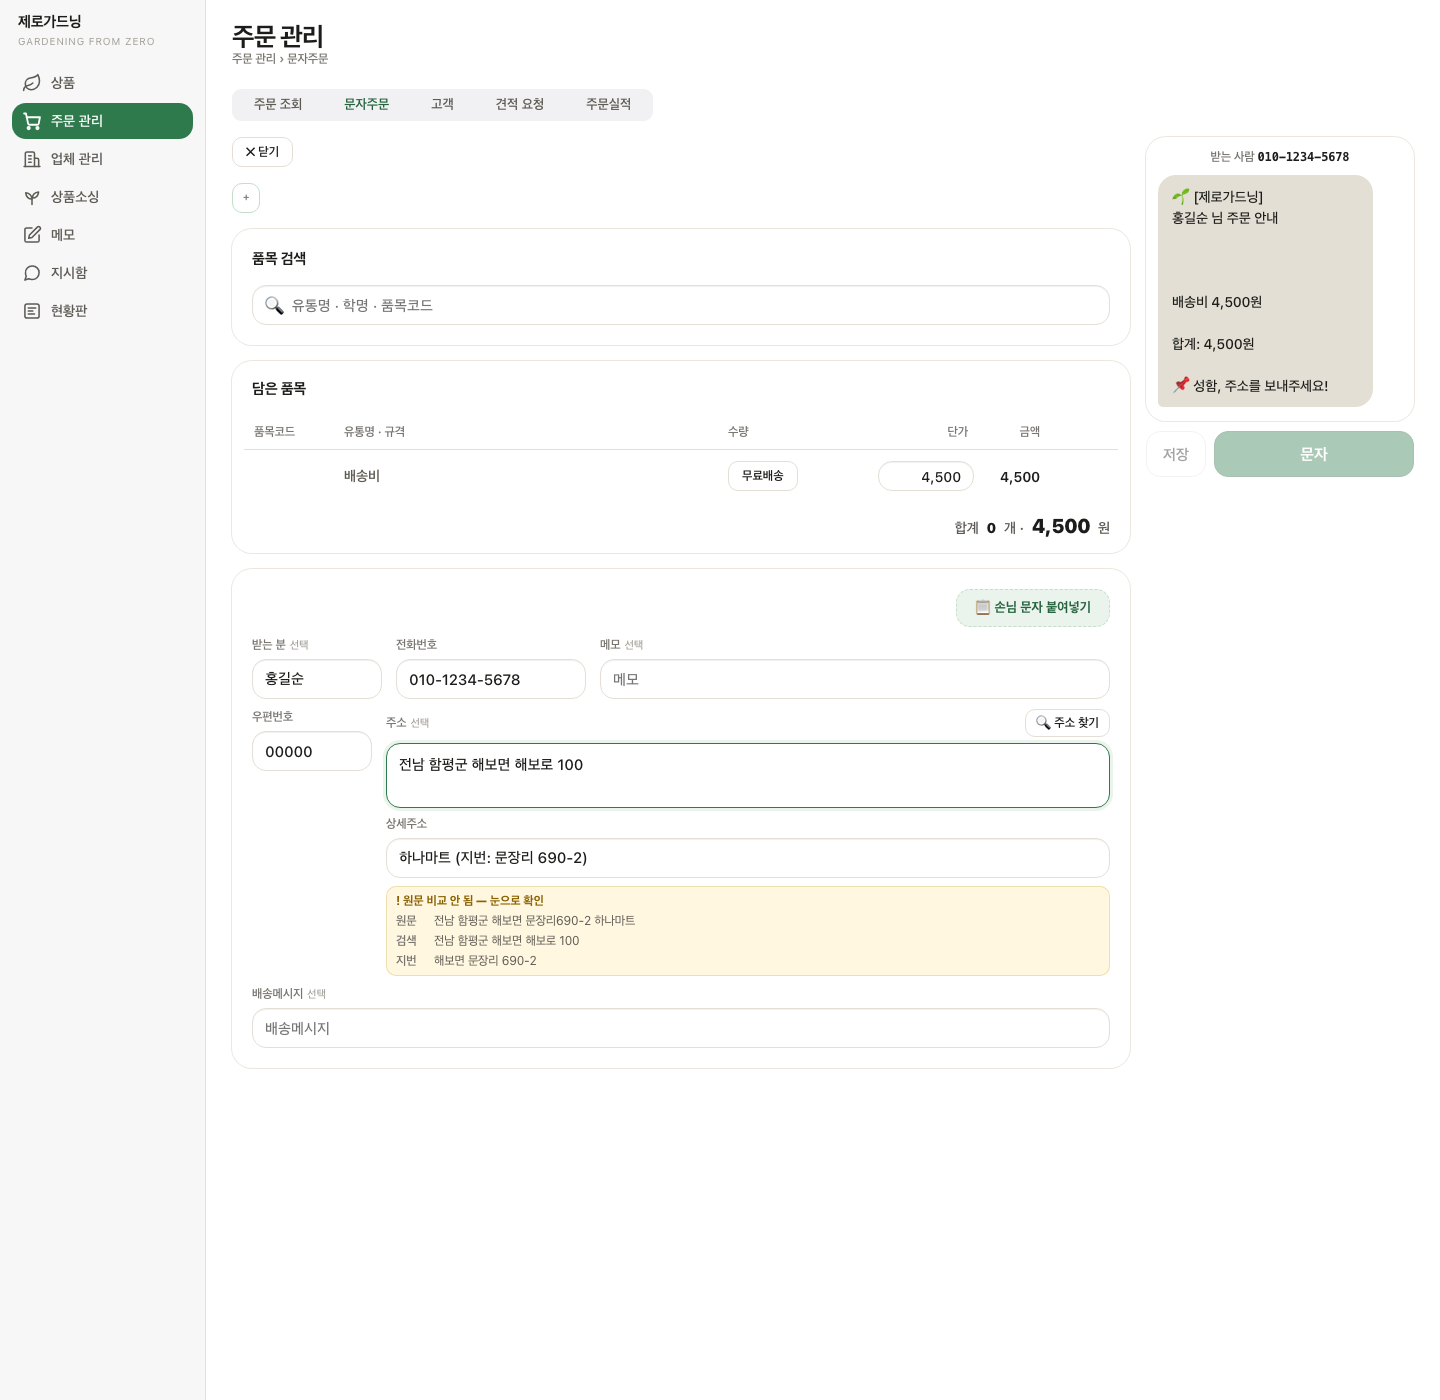
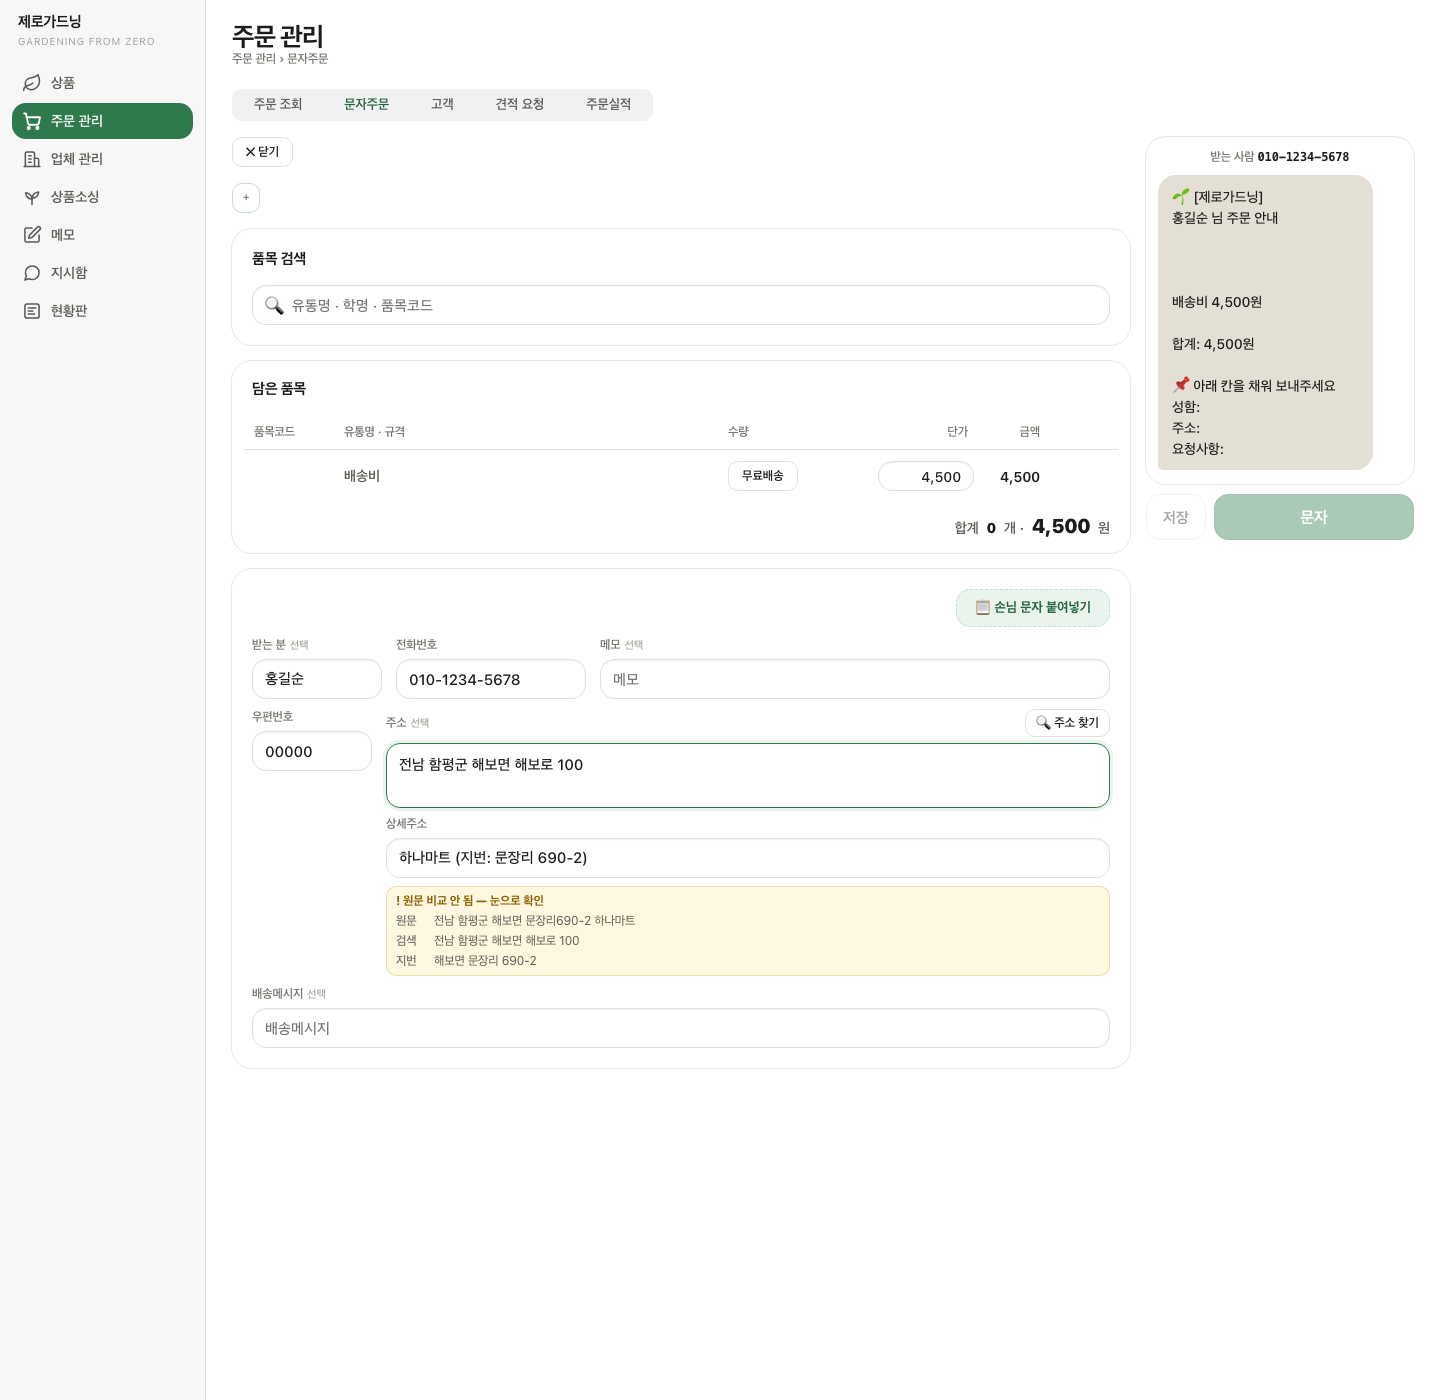
v3 견적 문자 끝 안내를 B안 양식으로 — 「📌 아래 칸을 채워 보내주세요 / 성함: / 주소: / 요청사항:」 (11/13 우람님 0223 답)
- 20a 문자내용 끝 줄(기본 템플릿 · 프리셋 기본문자도 여기서 나옴) — 사용자가 프리셋에서 고치는 건 그대로 자유
- 20h 나누기: 「요청사항:」 그 줄은 상세에 안 넣고 값.요청으로 · 머리 줄(아래 칸을 채워…)은 걸러냄 · 「없음」은 요청 아님
- 20h 채우기·20b 붙단추: 요청이 있으면 비어 있는 배송메시지 칸에 넣음
- 시험: 54 규칙 50/50(B안 답장 6 · 끝 줄 · 빈칸째 돌려보냄 · 화면 배송메시지 PC·폰 · 콘솔 0) · 회귀 45 붙여넣기 85/85 · 51 나누기 77/77 · 19 주소비교 20/20 · 52 읍면표 31/31
  (19 주소확인·문자주문 시험은 e8a26f7에서도 같은 곳에서 멈추는 옛 고장 — 기대 글자만 새 끝 줄로 고침)
- ?v 180→181(주문.html 20a·20b·20h)

Changed region(s): [[0.7812, 0.2457, 1.0, 0.3993]]

diff --git a/v3/js/20h-문자붙여넣기.js b/v3/js/20h-문자붙여넣기.js
@@ -80,7 +80,11 @@ window.ZG = window.ZG || {};
     보낸 = 보낸.map(숫자만);
     var 전화들 = (글.match(전화식) || []).map(숫자만).filter(function (v, i, a) { return a.indexOf(v) === i; })
       .sort(function (x, y) { return (보낸.indexOf(x) >= 0) - (보낸.indexOf(y) >= 0); });
-    글 = 글.replace(전화식, '\n').replace(/(\d),(\d{3})/g, '$1$2').replace(/(\d)\/(\d)/g, '$1\u0003$2')
+    // 견적 문자 B안 양식(20a 끝 줄) — 「요청사항:」 그 줄은 배송메시지(상세 아님) · 손님이 머리 줄(📌 아래 칸을 채워…)을 같이 보내도 군말
+    var 요청 = [];
+    글 = 글.replace(전화식, '\n').replace(/^.*아래\s*칸을\s*채워.*$/gm, '\n')
+      .replace(/(?:배송\s*)?요청\s*사항\s*[:：]?([^\n]*)/g, function (m, v) { v = v.trim(); if (v && !/^(없음|없어요|없습니다|[xX-])$/.test(v)) 요청.push(v); return '\n'; })
+      .replace(/(\d),(\d{3})/g, '$1$2').replace(/(\d)\/(\d)/g, '$1\u0003$2')
       .replace(/(^|\s)(?:상세\s*주소|동\s*[·.]?\s*호수)\s*(?:은|는)?\s*[:：]?/g, '$1\n\u0004')   // 「주소」 라벨보다 먼저 · 상세 라벨 — 낱말 첫머리만(「호수○○마을」 안 걸림)
       .replace(라벨식, function (m, l) { return '\n' + (/보내는/.test(l) ? '\u0002' : /받는|수령|수취|성함|이름/.test(l) ? '\u0001' : ''); })
       .replace(/(\d)([가-힣]{2,})/g, function (m, d, h) { return /^(동|호|층|번|가|리|차|단지|길|로|세대|[가-힣](길|로))/.test(h) ? m : d + ' ' + h; })   // 「○○로11가길·○○로3나길」 — 숫자+한 글자+길도 도로 이름
@@ -223,7 +227,7 @@ window.ZG = window.ZG || {};
     var 주소 = 주.join(' '), 검 = [주소, 주소.replace(/([가-힣\d]+로)\s*(\d+)-(\d+)$/, '$1$2번길 $3')];
     for (i = 1; i < 주.length - 1 && i < 3; i++) 검.push(주.slice(i).join(' '));
     if (고른 && !고른.번) for (i = 주.length - 1; i >= 2; i--) 검.push(주.slice(0, i).join(' '));
-    var 값 = { 이름: 이름, 전화들: 전화들, 원문주소: 주.concat(상).join(' '), 주소: 주소, 상세: 상.join(' '), 확인: 확인,
+    var 값 = { 이름: 이름, 전화들: 전화들, 원문주소: 주.concat(상).join(' '), 주소: 주소, 상세: 상.join(' '), 요청: 요청.join(' '), 확인: 확인,
              검색어들: 검.filter(function (v, i, a) { return v && a.indexOf(v) === i; }).slice(0, 5) };
     값.의심 = 의심(값, 주);
     확인.push.apply(확인, 값.의심);
@@ -255,6 +259,7 @@ window.ZG = window.ZG || {};
     if (새전화 && 지금전화 && 지금전화 !== 숫자만(새전화)) 다름.push(['전화번호', 칸.전화.value, 새전화, 칸.전화]);
     else if (새전화 && !지금전화) 넣기(칸.전화, 새전화);
     if (값.원문주소) { 넣기(칸.곳.주소, 값.주소); 넣기(칸.곳.상세, 값.상세); 넣기(칸.곳.우편, ''); }
+    if (값.요청 && 칸.메시지 && !칸.메시지.value.trim()) 넣기(칸.메시지, 값.요청);
     // 노란 「확인 필요」 — 이름이 이미 적혀 있으면 이름 쪽은 묻지 않는다 · 검색은 걸러진 주소 덩어리만
     if (칸.곳.줄.덧) 칸.곳.줄.덧(값.확인.filter(function (t) { return !(지금이름 && /^받는 분/.test(t)); }));
     function 찾기() { if (값.원문주소 && 칸.곳.줄.찾기) 칸.곳.줄.찾기(값.원문주소, 값.검색어들); }

diff --git a/v3/js/20a-문자주문자료.js b/v3/js/20a-문자주문자료.js
@@ -134,7 +134,8 @@ window.ZG = window.ZG || {};
     // 한 줄이면 폰 문자 칸에서 잘린다 — 계좌번호 뒤에서 끊어 예금주를 둘째 줄로
     // 입금 확인은 구매자명 = 입금자명으로 맞춘다(11/10 우람님) · 전화는 문자 받는 순간 아니 성함·주소만 청한다
     if (계) 글 += '\n\n💰입금계좌\n' + 계.replace(/^(.*\d)\s+(?=[^\d\s][^\d]*$)/, '$1\n') + '\n구매자 성함으로 입금해 주세요';
-    글 += '\n\n📌 성함, 주소를 보내주세요!';
+    // 라벨 양식(B안)으로 답을 받으면 붙여넣기가 가장 잘 나눈다 — 요청사항은 주소와 따로 (11/13 우람님 0223 답)
+    글 += '\n\n📌 아래 칸을 채워 보내주세요\n성함:\n주소:\n요청사항:';
     return 글;
   }
   /* 문자앱이 본문(body)을 안 받는 때가 있다 — 열기 전에 복사해 둔다 (§5).

diff --git a/v3/주문.html b/v3/주문.html
@@ -71,12 +71,12 @@
 <script src="js/16b-고객PC.js?v=160"></script>
 <script src="js/16c-고객폰.js?v=160"></script>
 <script src="js/16d-문자창.js?v=69"></script>
-<script src="js/20a-문자주문자료.js?v=175"></script>
+<script src="js/20a-문자주문자료.js?v=181"></script>
 <script src="js/20l-읍면표.js?v=179"></script>
-<script src="js/20h-문자붙여넣기.js?v=180"></script>
+<script src="js/20h-문자붙여넣기.js?v=181"></script>
 <script src="js/20i-입금매칭.js?v=175"></script>
 <script src="js/20j-문자프리셋.js?v=168"></script>
-<script src="js/20b-문자주문새문자.js?v=174"></script>
+<script src="js/20b-문자주문새문자.js?v=181"></script>
 <script src="js/20c-문자주문목록.js?v=178"></script>
 <script src="js/20d-문자주문올리기.js?v=175"></script>
 <script src="js/20e-예약자료.js?v=175"></script>

diff --git a/v3/js/20b-문자주문새문자.js b/v3/js/20b-문자주문새문자.js
@@ -292,7 +292,7 @@ window.ZG = window.ZG || {};
     참조.글칸들 = [칸.받는분, 칸.메모, 칸.배송메시지].concat(칸.곳.칸들);
     return 칸;
   }
-  function 붙단추(사람) { return ZG.문자붙여넣기.단추({ 이름: 사람.받는분, 전화: 사람.전화, 곳: 사람.곳 }); }
+  function 붙단추(사람) { return ZG.문자붙여넣기.단추({ 이름: 사람.받는분, 전화: 사람.전화, 메시지: 사람.배송메시지, 곳: 사람.곳 }); }
   function 보내기단추(폰) {
     참조.저장 = 만들기('button', { class: 폰 ? 'btn 저장만' : 'btn', type: 'button', text: '저장' });
     참조.문자 = 만들기('button', { class: 폰 ? 'ph-save' : 'btn main', type: 'button', text: '문자' });

diff --git a/v3/검수/54-붙여넣기규칙/규칙-시험.py b/v3/검수/54-붙여넣기규칙/규칙-시험.py
@@ -47,6 +47,15 @@ def 본다(이름, 참, 덧=''):
     ['홍길순 서울 강남구 테헤란로 12\n동호수는 101동 703호 입니다. 문 앞에 놔 주세요', '홍길순', '', '서울 강남구 테헤란로 12', '101동 703호', '동호수 라벨 + 같은 줄 요청'],
     ['홍길순 서울 강남구 테헤란로 12 해담마을 입구 경비실에 맡겨 주세요', '홍길순', '', '서울 강남구 테헤란로 12', '해담마을 입구', '「마을」은 조사 「을」 아님'],
 ]
+# B안 답장(견적 문자 끝 「📌 아래 칸을 채워 보내주세요 / 성함: / 주소: / 요청사항:」 · 11/13) — [글, 이름, 전화, 주소, 상세, 요청, 뜻]
+B사례 = [
+    ['성함: 홍길순\n주소: 서울 강남구 테헤란로 12 해담빌라 302호\n요청사항: 문 앞에 놔 주세요', '홍길순', '', '서울 강남구 테헤란로 12', '해담빌라 302호', '문 앞에 놔 주세요', '세 칸 다 채움'],
+    ['📌 아래 칸을 채워 보내주세요\n성함: 홍길순\n주소: 경기 양평군 서종면 북한강로 112 101동 1203호\n요청사항: 부재시 경비실에 맡겨주세요', '홍길순', '', '경기 양평군 서종면 북한강로 112', '101동 1203호', '부재시 경비실에 맡겨주세요', '머리 줄까지 같이 보냄'],
+    ['성함:홍길순\n주소:서울 강남구 테헤란로 12 2층\n요청사항:\n010-1234-5678', '홍길순', '01012345678', '서울 강남구 테헤란로 12', '2층', '', '요청사항 빈칸 · 전화는 아래 따로'],
+    ['성함: 홍길순 010 1234 5678\n주소: 충남 서산시 대산읍 해담동2로 16\n요청사항: 없음', '홍길순', '01012345678', '충남 서산시 대산읍 해담동2로 16', '', '', '「없음」은 요청 아님'],
+    ['성함 : 홍길순\n주소 : 인천 강화군 하점면 해담로174번길 13 파란대문집\n요청사항 : 도착 전에 전화 주세요 010-1234-5678', '홍길순', '01012345678', '인천 강화군 하점면 해담로174번길 13', '파란대문집', '도착 전에 전화 주세요', '요청 줄 안의 전화는 전화칸'],
+    ['입금했어요~\n성함: 홍길순\n주소: 서울 서초구 해담동 123-45 해담빌라 401호\n요청사항: 선물이에요 포장 예쁘게요 감사합니다', '홍길순', '', '서울 서초구 해담동 123-45', '해담빌라 401호', '선물이에요 포장 예쁘게요 감사합니다', '앞 인사 · 긴 요청'],
+]
 # [글, 의심 글자(없으면 '')]
 의심사례 = [
     ['받는 분: 꽃님이 서울 강남구 테헤란로 12', '흔한 성씨가 아님'],
@@ -83,6 +92,14 @@ try:
                 for c, r in zip(사례, 답):
                     ok = r['이름'] == c[1] and (r['전화들'] or [''])[0] == c[2] and r['주소'] == c[3] and r['상세'] == c[4]
                     본다('나누기 · ' + c[5], ok, '' if ok else [r['이름'], (r['전화들'] or [''])[0], r['주소'], r['상세']])
+                글 = 쪽.evaluate("ZG.문자주문자료.문자내용({받는분:'홍길순', 품목:[{유통명:'청사초', 규격:'10cm', 수량:1, 단가:3800}], 배송비:4500})")
+                본다('견적 문자 끝 = B안 양식(성함·주소·요청사항 칸)', 글.endswith('\n\n📌 아래 칸을 채워 보내주세요\n성함:\n주소:\n요청사항:'), 글[-50:].replace('\n', ' / '))
+                r = 쪽.evaluate("g => ZG.문자붙여넣기.나누기(g)", 글 + '\n')
+                본다('손님이 견적 문자를 빈칸째 그대로 돌려보내도 요청사항·머리 줄이 상세에 안 들어감', not r['요청'] and '요청' not in r['상세'] and '채워' not in r['상세'], [r['주소'], r['상세']])
+                답 = 쪽.evaluate("cs => cs.map(c => ZG.문자붙여넣기.나누기(c[0]))", B사례)
+                for c, r in zip(B사례, 답):
+                    ok = r['이름'] == c[1] and (r['전화들'] or [''])[0] == c[2] and r['주소'] == c[3] and r['상세'] == c[4] and r['요청'] == c[5] and not r['의심']
+                    본다('B안 · ' + c[6] + ' — 요청사항이 상세에 안 섞임', ok, '' if ok else [r['이름'], (r['전화들'] or [''])[0], r['주소'], r['상세'], r['요청'], r['확인']])
                 답 = 쪽.evaluate("cs => cs.map(c => ZG.문자붙여넣기.나누기(c[0]).의심)", 의심사례)
                 for c, r in zip(의심사례, 답):
                     ok = any(c[1] in w for w in r) if c[1] else not r
@@ -93,7 +110,7 @@ try:
             쪽.click('.새문자칩'); 쪽.wait_for_timeout(300)
             판 = '.문자주문'
             def 해보기(글, d):
-                쪽.evaluate("() => { const s = ZG.문자주문새문자.상태; Object.assign(s, { 받는분: '', 전화: '', 주소: '', 상세주소: '', 우편: '', 원문주소: '', 주소확인: '' }); window.__우편 = null; ZG.주문.다시그리기(); }")
+                쪽.evaluate("() => { const s = ZG.문자주문새문자.상태; Object.assign(s, { 받는분: '', 전화: '', 주소: '', 상세주소: '', 우편: '', 원문주소: '', 주소확인: '', 배송메시지: '' }); window.__우편 = null; ZG.주문.다시그리기(); }")
                 쪽.wait_for_timeout(250)
                 쪽.evaluate("g => { window.__붙일글 = g; }", 글)
                 쪽.click(판 + ' button:has-text("손님 문자 붙여넣기")'); 쪽.wait_for_timeout(400)
@@ -106,6 +123,10 @@ try:
             본다('상세가 비어 있어도 「(지번: …)」만', r[1] == '(지번: 문장리 690-2)', r)
             r = 해보기('홍길순 010-1234-5678 충남 천안시 서북구 두정공원2길 50 2층', 카_두정)
             본다('도로명으로 쓴 손님 → 지번 안 붙음', '지번' not in r[1] and r[1] == '2층', r)
+            r = 해보기('성함: 홍길순\n주소: 충남 천안시 서북구 두정공원2길 50 2층\n요청사항: 문 앞에 놔 주세요\n010-1234-5678', 카_두정)
+            메 = 쪽.evaluate("() => [ZG.문자주문새문자.상태.배송메시지, ZG.문자주문새문자.상태.받는분, ZG.문자주문새문자.상태.전화]")
+            본다('화면 · B안 답장 붙여넣기 → 상세 「2층」 · 요청사항은 배송메시지 칸', r[1] == '2층' and 메[0] == '문 앞에 놔 주세요' and 메[1] == '홍길순' and 메[2].replace('-', '') == '01012345678', [r, 메])
+            쪽.screenshot(path=str(여기 / ('2-B안답장-' + 틀 + '.png')), full_page=폰, animations='disabled')
             본다('콘솔 빨간 에러 0 (' + 틀 + ')', not 오류, 오류[:3])
             쪽.close()
         브.close()

diff --git a/v3/검수/문자주문/문자주문-시험.py b/v3/검수/문자주문/문자주문-시험.py
@@ -496,7 +496,7 @@ with sync_playwright() as p:
         본다('배송비 4,500 줄', '배송비 4,500원' in 글)
         본다('합계 = 5,800×1+3,000×2+4,500 = 16,300', '합계: 16,300원' in 글)
         본다('입금계좌 들어감(다듬음)', '💰입금계좌\n농협 351-1390-7063-23\n김두용(제로가드닝)' in 글 and not 글.endswith(' '))
-        본다('꼬리말 = 계좌 · 구매자 성함 입금 · 빈 줄 + 성함·주소 요청(11/10)', 글.endswith('김두용(제로가드닝)\n구매자 성함으로 입금해 주세요\n\n📌 성함, 주소를 보내주세요!'), 글[-60:])
+        본다('꼬리말 = 계좌 · 구매자 성함 입금 · 빈 줄 + B안 양식(11/13)', 글.endswith('김두용(제로가드닝)\n구매자 성함으로 입금해 주세요\n\n📌 아래 칸을 채워 보내주세요\n성함:\n주소:\n요청사항:'), 글[-60:])
         # 단가 고치기
         고쳐쓰기(쪽, 쪽.locator('.ph-card.담음').first.locator('input.won'), '6000')
         본다('단가 고치면 합계 반영(6,000+6,000+4,500=16,500)', '합계: 16,500원' in 말())
@@ -775,7 +775,7 @@ with sync_playwright() as p:
         글 = 쪽.evaluate("ZG.문자주문자료.문자내용({받는분:'', 품목:[{유통명:'청사초', 규격:'10cm', 수량:1, 단가:3800}], 배송비:4500})")
         print('    ' + 글.replace('\n', ' / '))
         본다('자사 없음 → 💰 줄 통째로 빠짐, 에러 없음', '💰' not in 글 and '입금계좌' not in 글)
-        본다('자사 없음 → 꼬리말은 합계 뒤 빈 줄 + 한 줄', 글.endswith('합계: 8,300원\n\n📌 성함, 주소, 연락처를 보내주세요!'), 글[-60:])
+        본다('자사 없음 → 꼬리말은 합계 뒤 빈 줄 + 한 줄', 글.endswith('합계: 8,300원\n\n📌 아래 칸을 채워 보내주세요\n성함:\n주소:\n요청사항:'), 글[-60:])
         ctx.close()
 
         발송시험(브, True)

diff --git a/v3/검수/45-문자붙여넣기/붙여넣기-시험.py b/v3/검수/45-문자붙여넣기/붙여넣기-시험.py
@@ -119,7 +119,7 @@ try:
             m = 미리()
             본다('무료배송 — 합계 15,000 · 문자에 「무료배송」 · 배송비 줄 없음', '15,000' in 합() and '\n무료배송\n' in m and '배송비 ' not in m and 상태()['배송비'] == 0 and 상태()['무료배송'] is True, 합())
             본다('무료배송 줄 자리 = 품목 아래·합계 위', m.index('15,000원') < m.index('무료배송') < m.index('합계:'))
-            본다('안내 문자 — 성함·주소만 요청 · 연락처 요청 없음', '📌 성함, 주소를 보내주세요!' in m and '연락처를' not in m)
+            본다('안내 문자 — B안 양식(성함·주소·요청사항) · 연락처 요청 없음', '📌 아래 칸을 채워 보내주세요\n성함:\n주소:\n요청사항:' in m and '연락처' not in m)
             본다('입금계좌 아래 「구매자 성함으로 입금해 주세요」', '💰입금계좌' in m and m.index('💰입금계좌') < m.index('구매자 성함으로 입금해 주세요') < m.index('📌'), m[-120:].replace('\n', ' / '))
             쪽.screenshot(path=str(여기 / ('6-무료배송-' + 틀 + '.png')), full_page=폰, animations='disabled')
             쪽.click(판 + ' button:has-text("무료배송")'); 쪽.wait_for_timeout(200)
